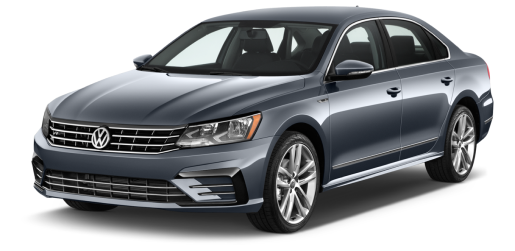
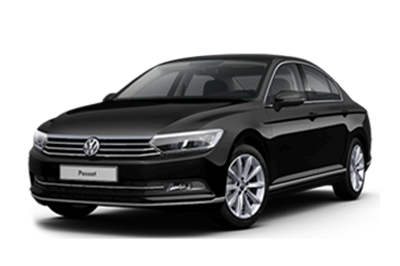
fixed passat pic

diff --git a/euroline/src/WhyUs.js b/euroline/src/WhyUs.js
@@ -16,19 +16,27 @@ const WhyUs = () => {
                     <img src={onePic} alt="" />               
                     <h1>Convenient and Hassle-Free:</h1>
                 </div>
-                <p>Our rental car service provides a seamless solution for short-term transportation needs, ensuring a hassle-free experience for customers.</p>
+                <p>Our rental car service provides a seamless solution 
+                    for short-term transportation needs, ensuring a
+                     hassle-free experience for customers.</p>
               
               <div className="text">
                     <img src={twoPic} alt="" />     
                     <h1>Diverse Fleet:</h1>
               </div>
-                <p id='diverseFleet'>Choose from a diverse fleet of well-maintained vehicles, ranging from compact cars to spacious SUVs, catering to various preferences and requirements.</p>
+                <p id='diverseFleet'>Choose from a diverse fleet of
+                 well-maintained vehicles, ranging from compact cars
+                 to spacious SUVs, catering to various preferences and
+                  requirements.</p>
                
                <div className="text">
                     <img src={threePic} alt="" />    
                     <h1>User-Friendly Online Platform:</h1>
                </div>
-                <p>Our intuitive online platform simplifies the booking process, allowing customers to easily select and reserve their preferred vehicle with just a few clicks.</p>
+                <p>Our intuitive online platform simplifies the 
+                    booking process, allowing customers to easily 
+                    select and reserve their preferred vehicle with
+                     just a few clicks.</p>
             
             </div>
             <div className="right">
@@ -36,19 +44,27 @@ const WhyUs = () => {
                     <img src={fourPic} alt="" />    
                     <h1>Competetive Pricing:</h1>
                 </div>
-                <p>Benefit from competitive pricing, ensuring that customers receive value for their money when securing reliable and comfortable transportation.</p>
+                <p>Benefit from competitive pricing, ensuring that 
+                    customers receive value for their money when 
+                    securing reliable and comfortable transportation.</p>
                 
                 <div className="text">
                     <img src={fivePic} alt="" />    
                     <h1>Flexible Rental Options:</h1>
                 </div>
-                <p>With flexible rental options, our service accommodates the dynamic needs of customers, whether for business trips, vacations, or daily commuting.</p>
+                <p>With flexible rental options, our service 
+                    accommodates the dynamic needs of customers,
+                     whether for business trips, vacations, or 
+                     daily commuting.</p>
                 
                 <div className="text">
                     <img src={sixPic} alt="" />    
                     <h1>Transparent Terms:</h1>
                 </div>
-                <p>Clear and transparent terms provide customers with confidence, making it straightforward to understand and adhere to the conditions of their rental agreement.</p>
+                <p>Clear and transparent terms provide customers 
+                    with confidence, making it straightforward 
+                    to understand and adhere to the conditions of 
+                    their rental agreement.</p>
             
             </div>
         </div>

diff --git a/euroline/src/index.css b/euroline/src/index.css
@@ -70,13 +70,13 @@ body {
   margin-top: -100px;
 }
 #seeOptions{
-  padding: 15px;
+  padding: 20px;
   border-radius: 20px;
   font-weight: 600;
   color: #fff;
   background: var(--buttonGradient);
   border: none;
-  font-size: 1rem;
+  font-size: 1.2rem;
   margin-top: -200px;
 }
 #seeOptions:hover{
@@ -113,7 +113,7 @@ body {
 }
 .carBlock img{
   width: 100%;
-  height: auto;
+  padding-top: 10px;
 }
 .carBlock{
   width: 400px;
@@ -127,12 +127,15 @@ body {
 .carBlock h1{
   font-size: 3rem;
   text-align: center;
+  font-weight: 900;
   margin: 0;
+  padding-bottom: 0;
 }
 .carBlock h2{
   text-align: center;
   margin: 0;
   justify-content: center;
+  color: var(--blueMain);
 }
 .buttonDiv{
   margin: 10px;
@@ -160,14 +163,14 @@ body {
   background-color: #fff;
   justify-content: center;
   padding: 300px;
+  background-size: cover;
 }
 .whyUs .left h1, .whyUs .right h1{
-  font-size: 3rem;
+  font-size: 2.8rem;
   line-height: 52px;
   font-style: italic;
-  padding: 40px;
+  padding: 40px;  
   margin: 0px;
-  margin-bottom: 0px;
   padding-left: 0;
   padding-bottom: 0;
 }
@@ -188,7 +191,12 @@ body {
   padding-left: 90px;
 }
 #diverseFleet{
-  margin-top: -30px;
+  margin-top: -40px;
+}
+@media (max-width: 1733px){
+  #diverseFleet{
+    margin-top: 0px;
+  }
 }
 .whyUs .text{
   display: flex;
@@ -246,3 +254,5 @@ footer{
   font-weight: 900;
   font-size: 1.7rem;
 }
+
+

diff --git a/euroline/src/footer.js b/euroline/src/footer.js
@@ -5,8 +5,8 @@ const Footer = () => {
         <a className="footeritem" id="mainFooterText" href="https://dorantvelija.com/">Dorant Velija 2024</a>
         <a className="footeritem" href="https://dorantvelija.com/contact">Contact</a>
         <a className="footeritem" href="https://github.com/DorantVelija/">Github</a>
-        <a class="footeritem" href="https://linkedin.com/DorantVelija">LinkedIn</a>
-        <a class="footeritem" href="https://dorantvelija.com/contact">Email</a>
+        <a className="footeritem" href="https://linkedin.com/DorantVelija">LinkedIn</a>
+        <a className="footeritem" href="https://dorantvelija.com/contact">Email</a>
       </ul>
 
       <ul className="footerUl" id="footerRight">

diff --git a/euroline/src/OurFleet.js b/euroline/src/OurFleet.js
@@ -9,7 +9,7 @@ const OurFleet = () => {
             <h1>OUR FLEET</h1>
             <div className="carBlocks">
                 <CarBlock carName="VW GOLF 7" carPrice="75" carImg={carRed}/>
-                <CarBlock carName="VW PASSAT" carPrice="80" carImg={carRed}/>
+                <CarBlock carName="VW PASSAT" carPrice="80" carImg={passat}/>
                 <CarBlock carName="AUDI A3" carPrice="60" carImg={audi}/>
             </div>
         </div>
